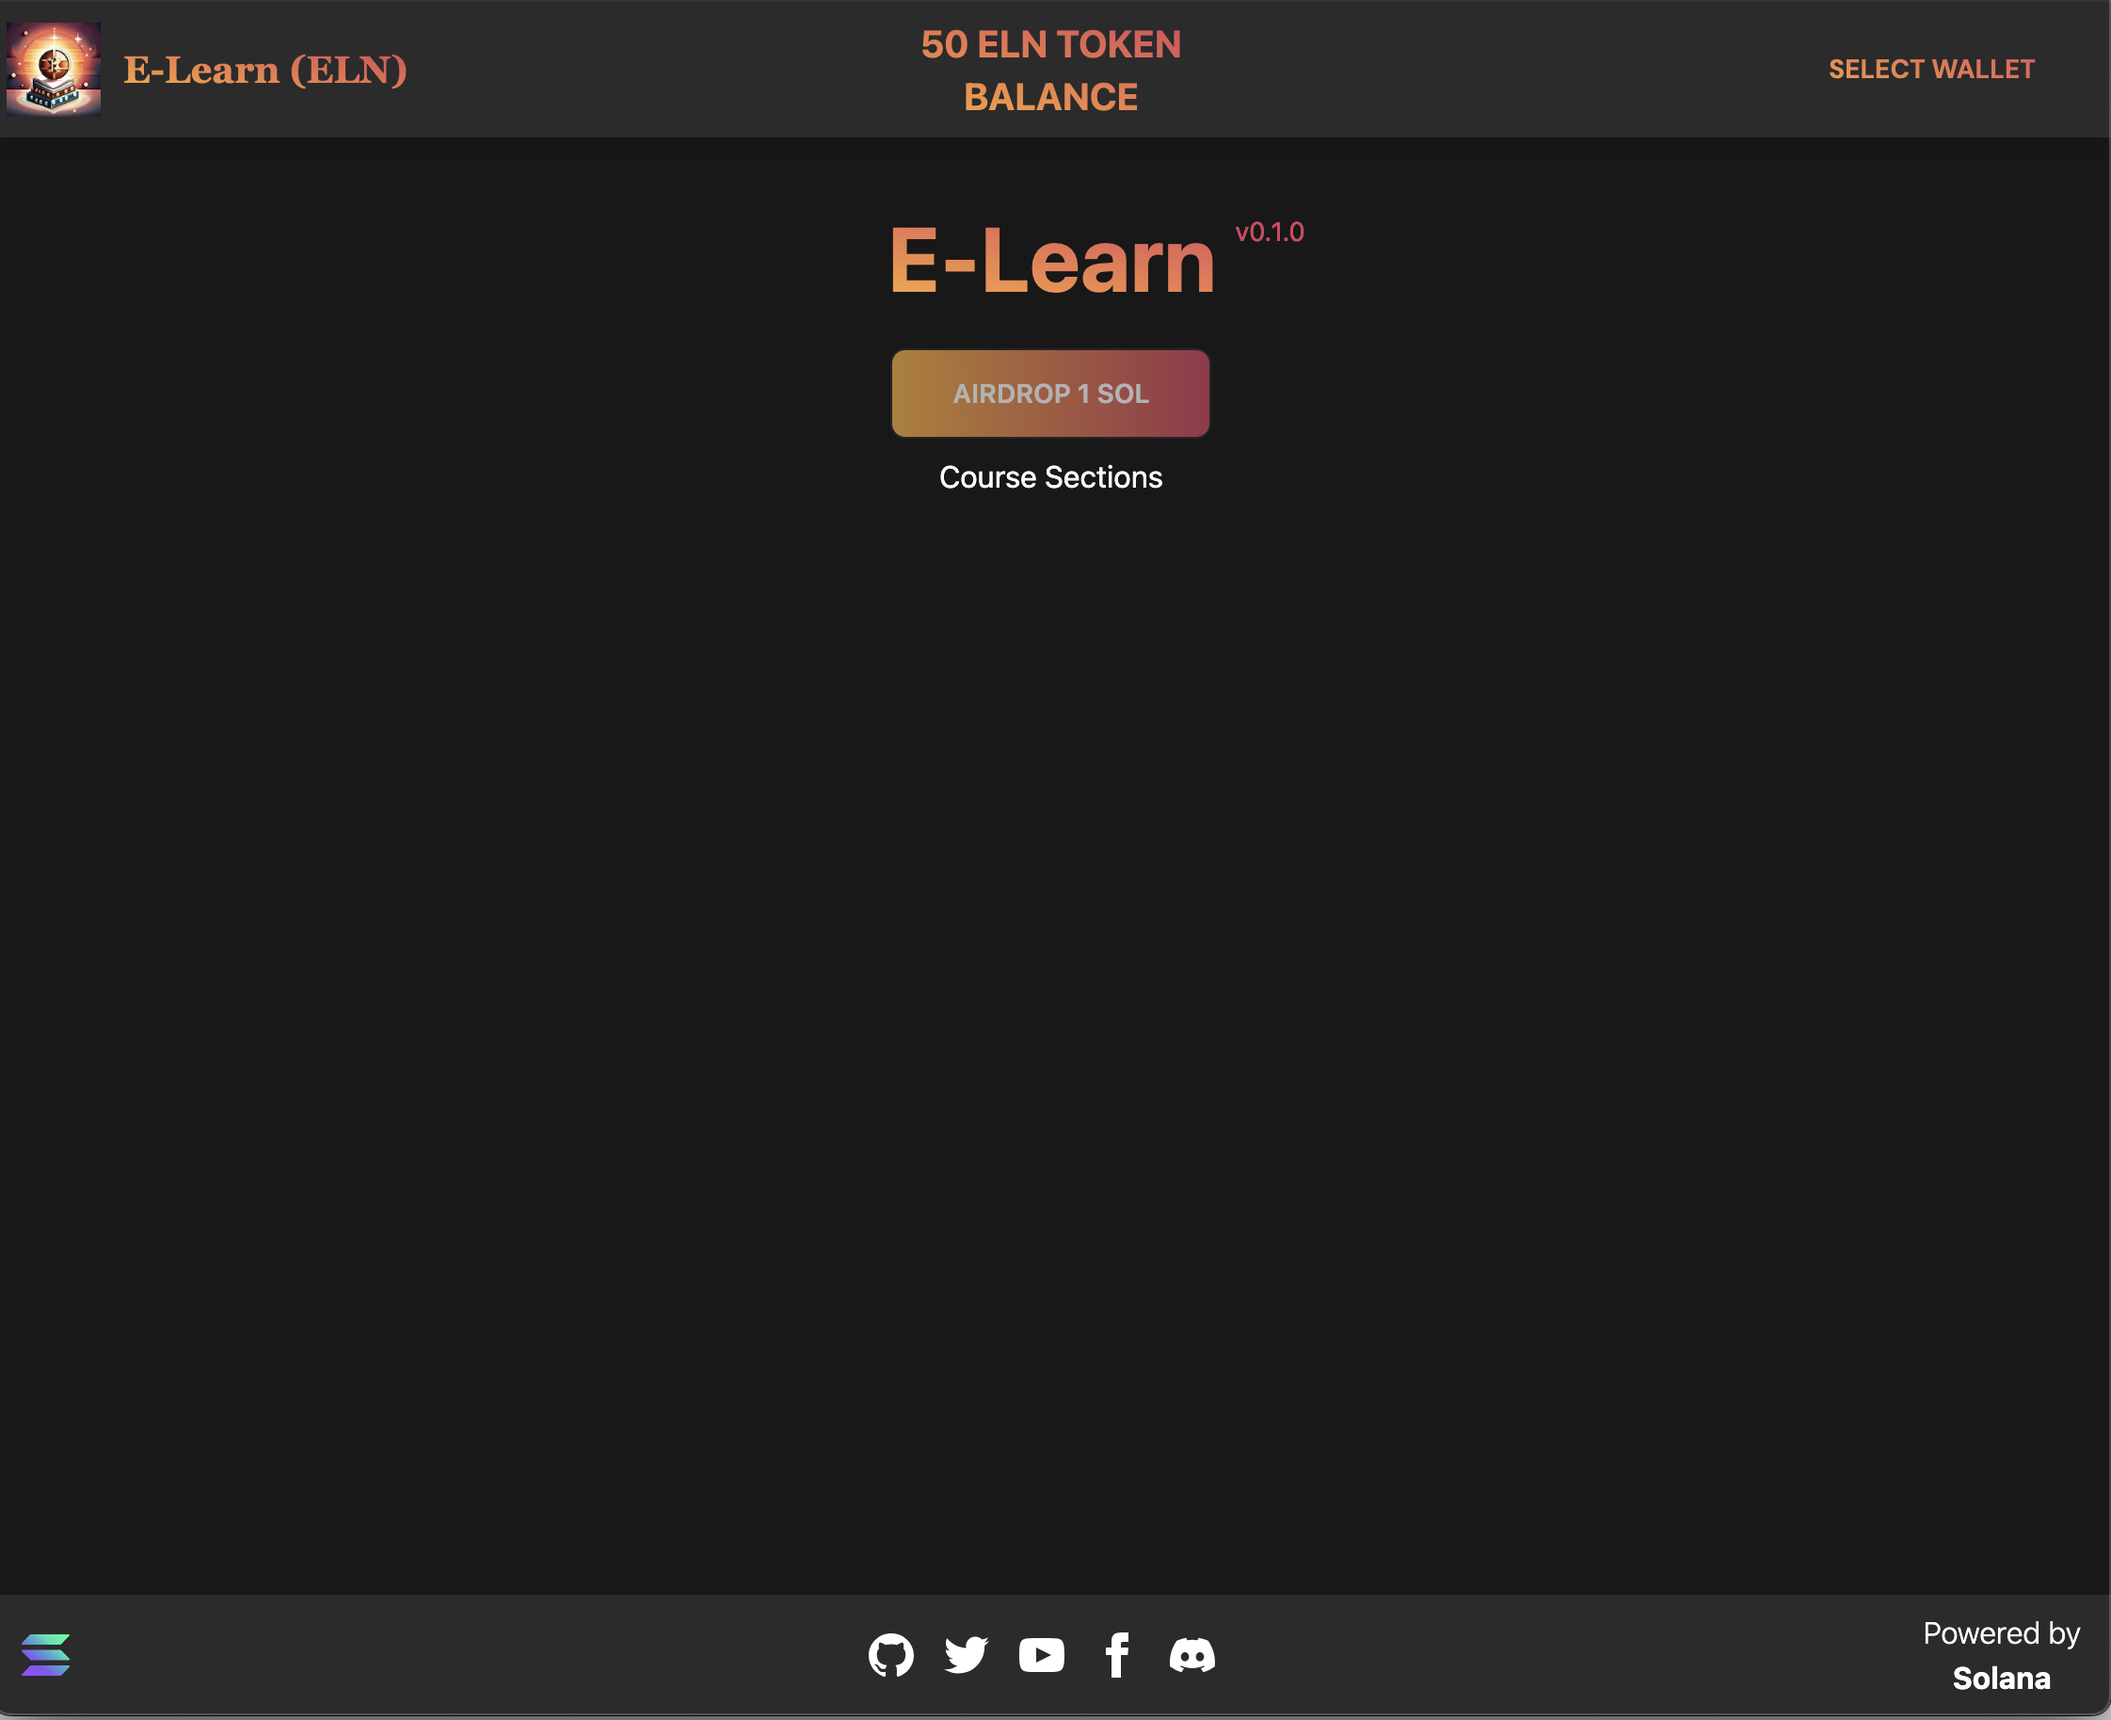
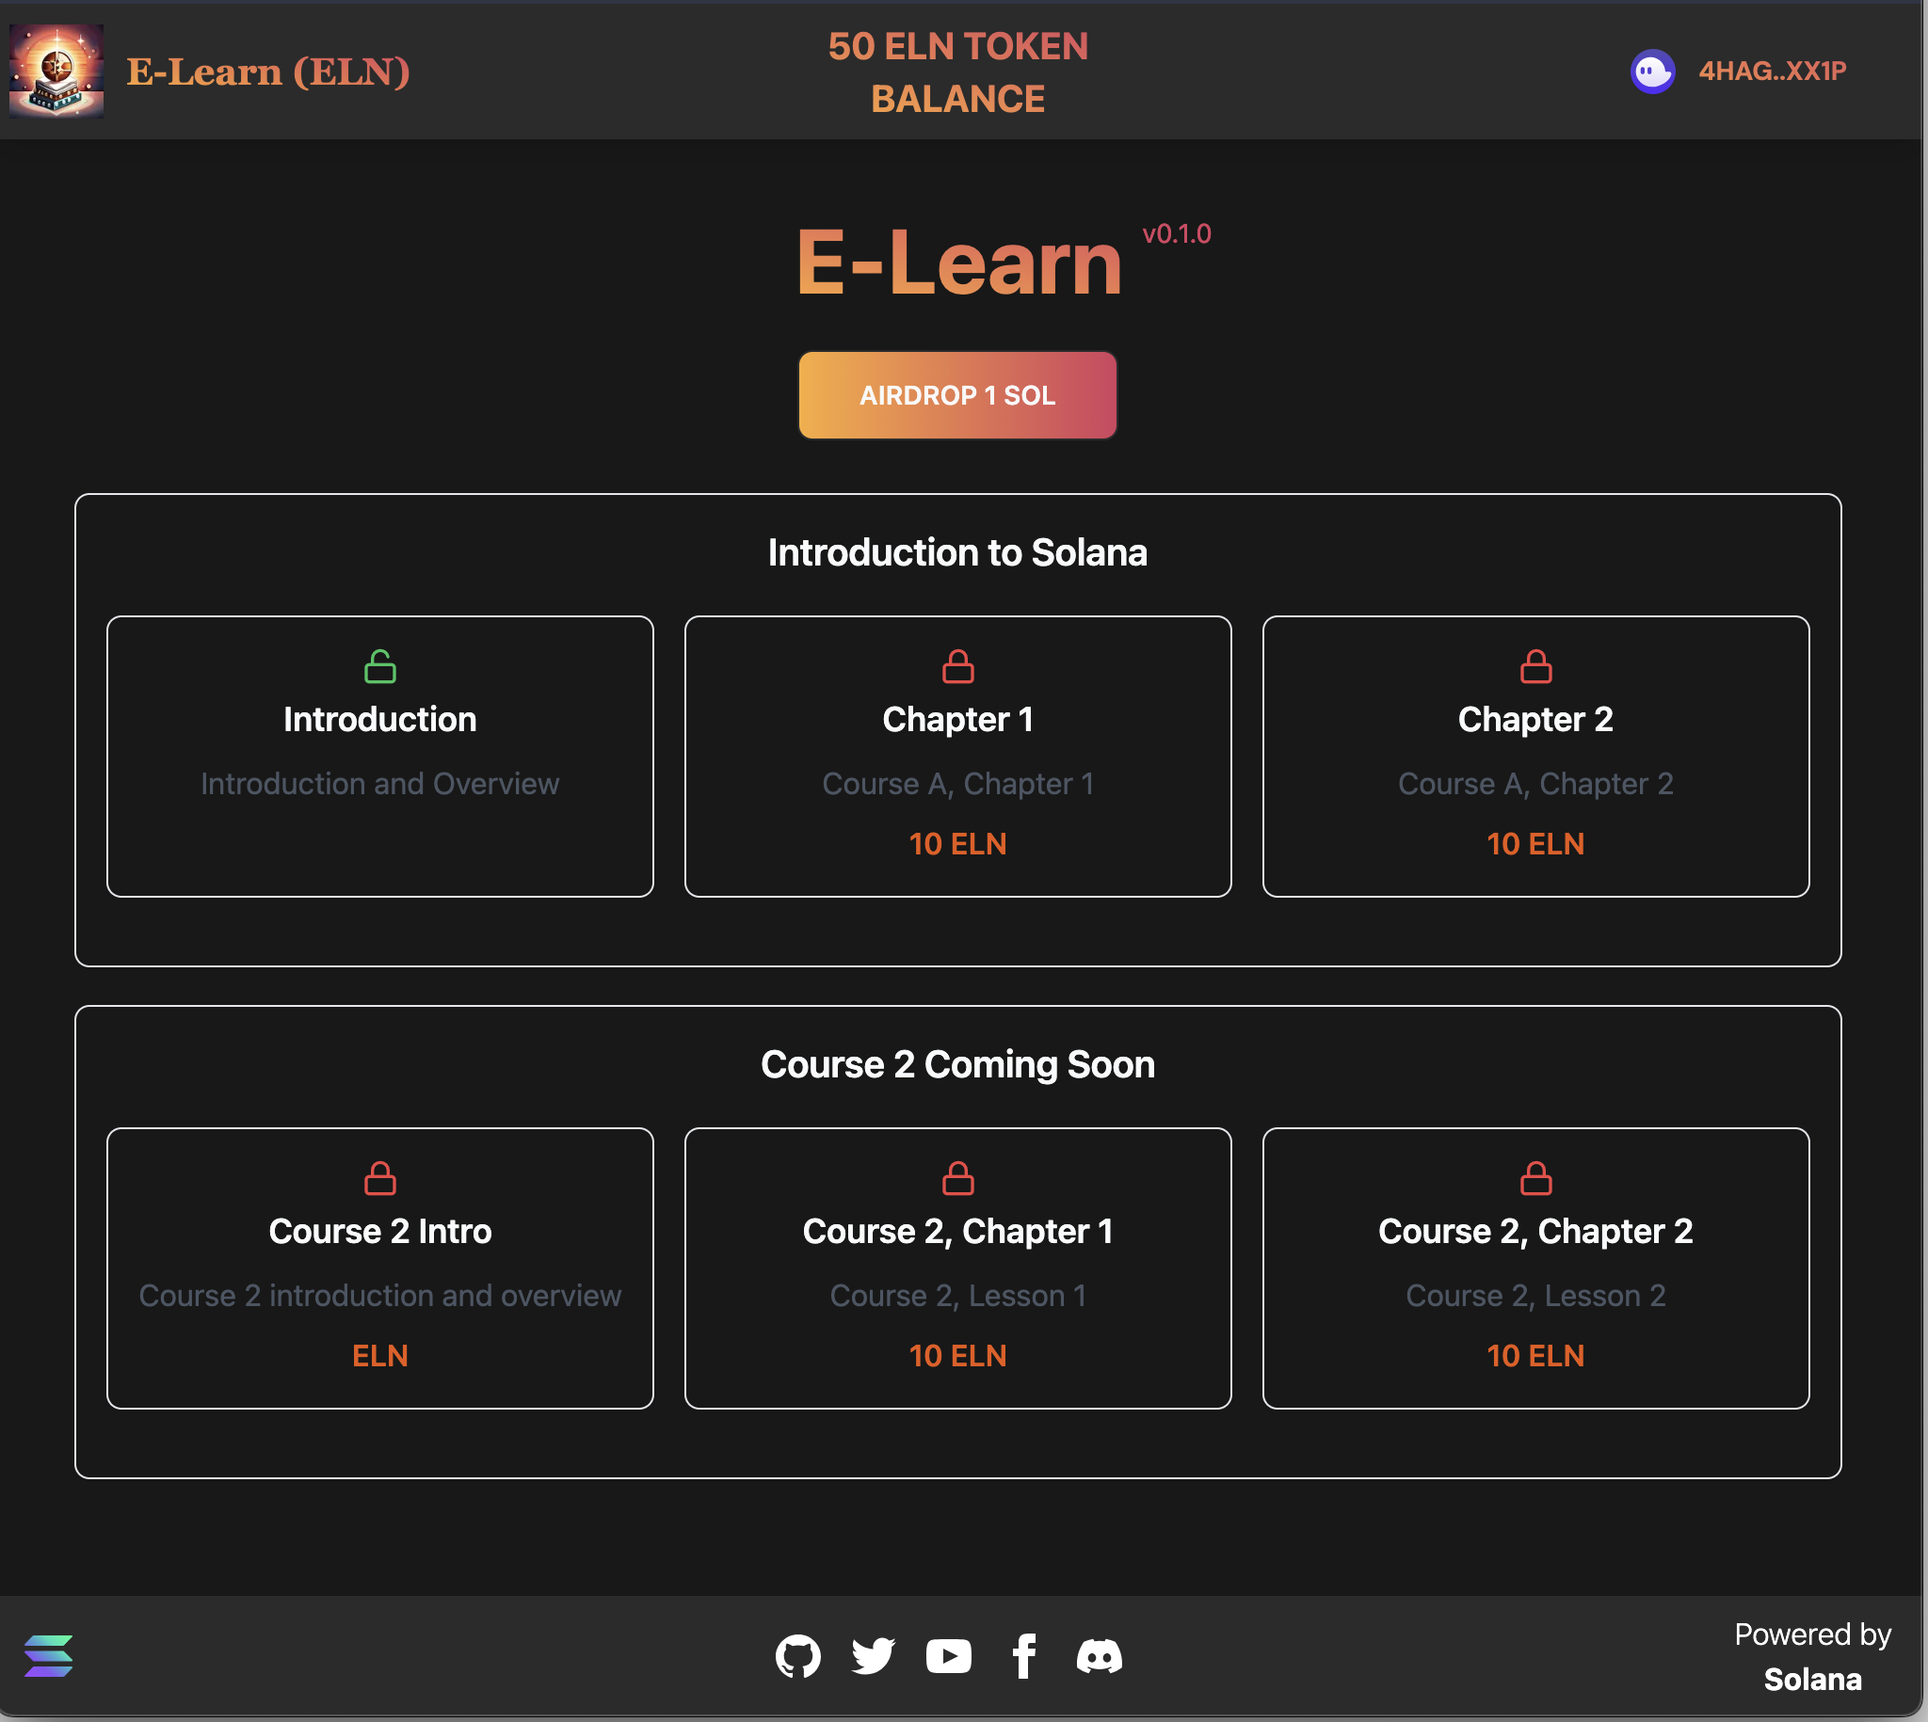
added course gridview

diff --git a/src/components/CourseSections.tsx b/src/components/CourseSections.tsx
@@ -1,10 +1,49 @@
-import { FC } from 'react';
+import React, { FC } from 'react';
+import sections from 'data/course-sections';
+import { notify } from 'utils/notifications';
+import { Lock, Unlock } from 'react-feather'; // Import Feather Icons
 
 export const CourseSections: FC = () => {
+  const handleSectionClick = (courseName: string, sectionTitle: string) => {
+    // Implement your desired action when a section is clicked here
+    // You can navigate to a different page, display more details, or perform any other action.
+    notify({ type: 'success', message: `Course Name: ${courseName} | Section Title: ${sectionTitle} clicked` });
+  };
 
-    return (
-        <div>
-            <h1>Course Sections</h1>
-        </div>
-    );
+  return (
+    <>
+      <div className="section-grid">
+        {sections.map((course) => (
+          <div key={course.course} className="my-5 border p-4 mb-4 rounded-lg shadow">
+            <h2 className="text-xl font-semibold mb-2">{course.course}</h2>
+            <div className="my-5 grid grid-cols-1 md:grid-cols-2 lg:grid-cols-3 gap-4">
+              {course.sections.map((section) => (
+                <div
+                  key={section.id}
+                  className="border p-4 rounded-lg shadow cursor-pointer"
+                  onClick={() => handleSectionClick(course.course, section.title)} // Handle click event
+                >
+                  <div className="flex flex-col items-center mb-2"> {/* Flex container */}
+                    {section.isPurchased ? (
+                      <Unlock className="text-green-500 mb-1" size={20} /> // Unlocked padlock icon
+                    ) : (
+                      <Lock className="text-red-500 mb-1" size={20} /> // Locked padlock icon
+                    )}
+                    <h3 className="text-lg font-semibold">{section.title}</h3> {/* Chapter name */}
+                  </div>
+                  <p className="text-gray-600">{section.description}</p>
+                  {section.isPurchased ? null : (
+                    <p className="text-orange-600 font-semibold mt-2">{section.price} ELN</p> // Display price only if not purchased
+                  )}
+                  {/* Add more section details here */}
+                </div>
+              ))}
+            </div>
+          </div>
+        ))}
+      </div>
+    </>
+  );
 };
+
+export default sections;

diff --git a/src/data/course-sections.ts b/src/data/course-sections.ts
@@ -1,0 +1,24 @@
+// data/sections.ts
+const sections = [
+    {
+      course: 'Introduction to Solana',
+      sections: [
+        { id: 1, title: 'Introduction', description: 'Introduction and Overview', price: 10, isPurchased:true },
+        { id: 2, title: 'Chapter 1', description: 'Course A, Chapter 1', price: 10, isPurchased:false },
+        { id: 3, title: 'Chapter 2', description: 'Course A, Chapter 2', price: 10, isPurchased:false },
+        // Add more sections for Course A
+      ],
+    },
+    {
+      course: 'Course 2 Coming Soon',
+      sections: [
+        { id: 1, title: 'Course 2 Intro', description: 'Course 2 introduction and overview', isPurchased:false },
+        { id: 2, title: 'Course 2, Chapter 1', description: 'Course 2, Lesson 1', price: 10, isPurchased:false },
+        { id: 3, title: 'Course 2, Chapter 2', description: 'Course 2, Lesson 2', price: 10, isPurchased:false },
+        // Add more sections for Course B
+      ],
+    },
+    // Add more courses with their respective sections
+  ];
+  
+  export default sections;
